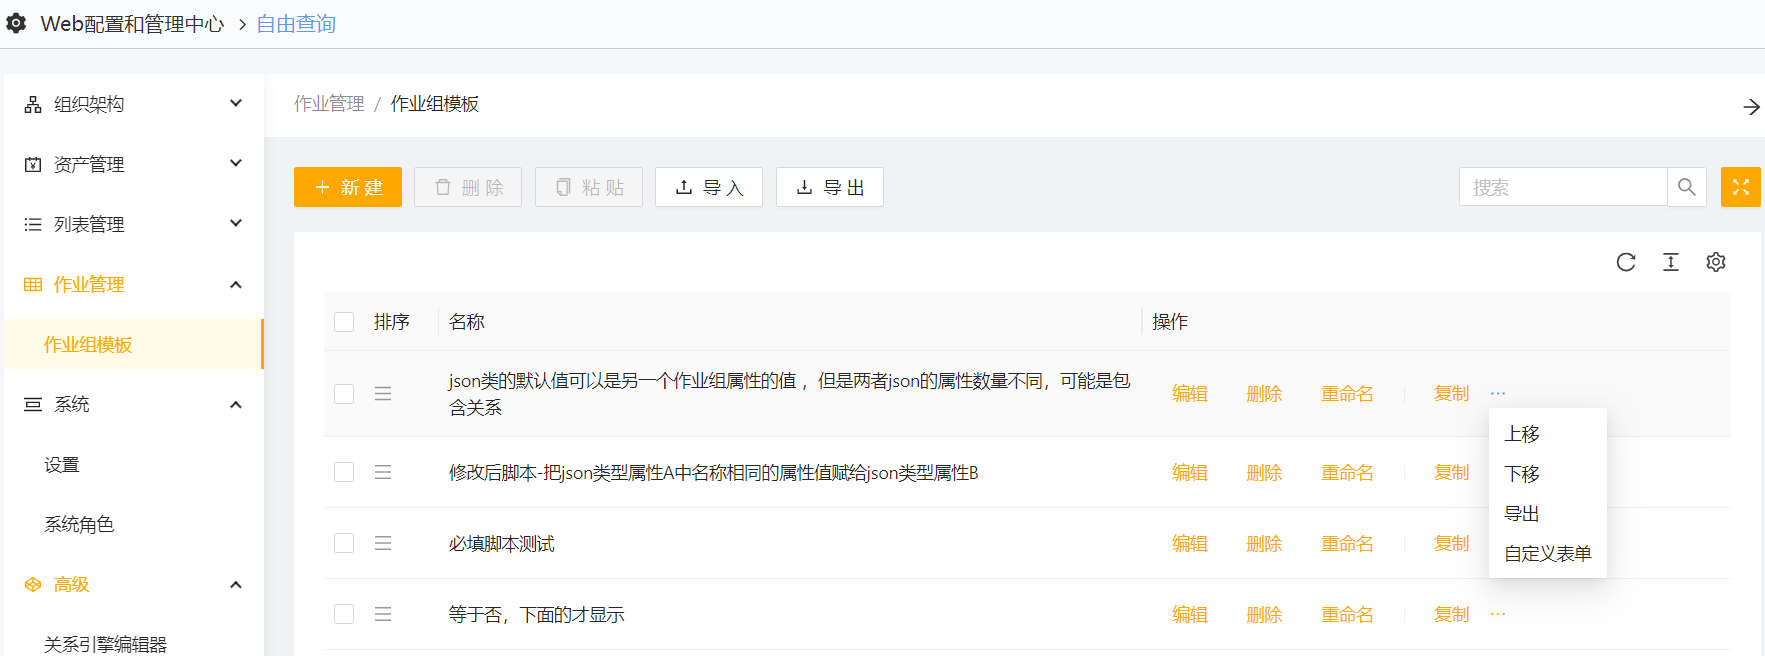
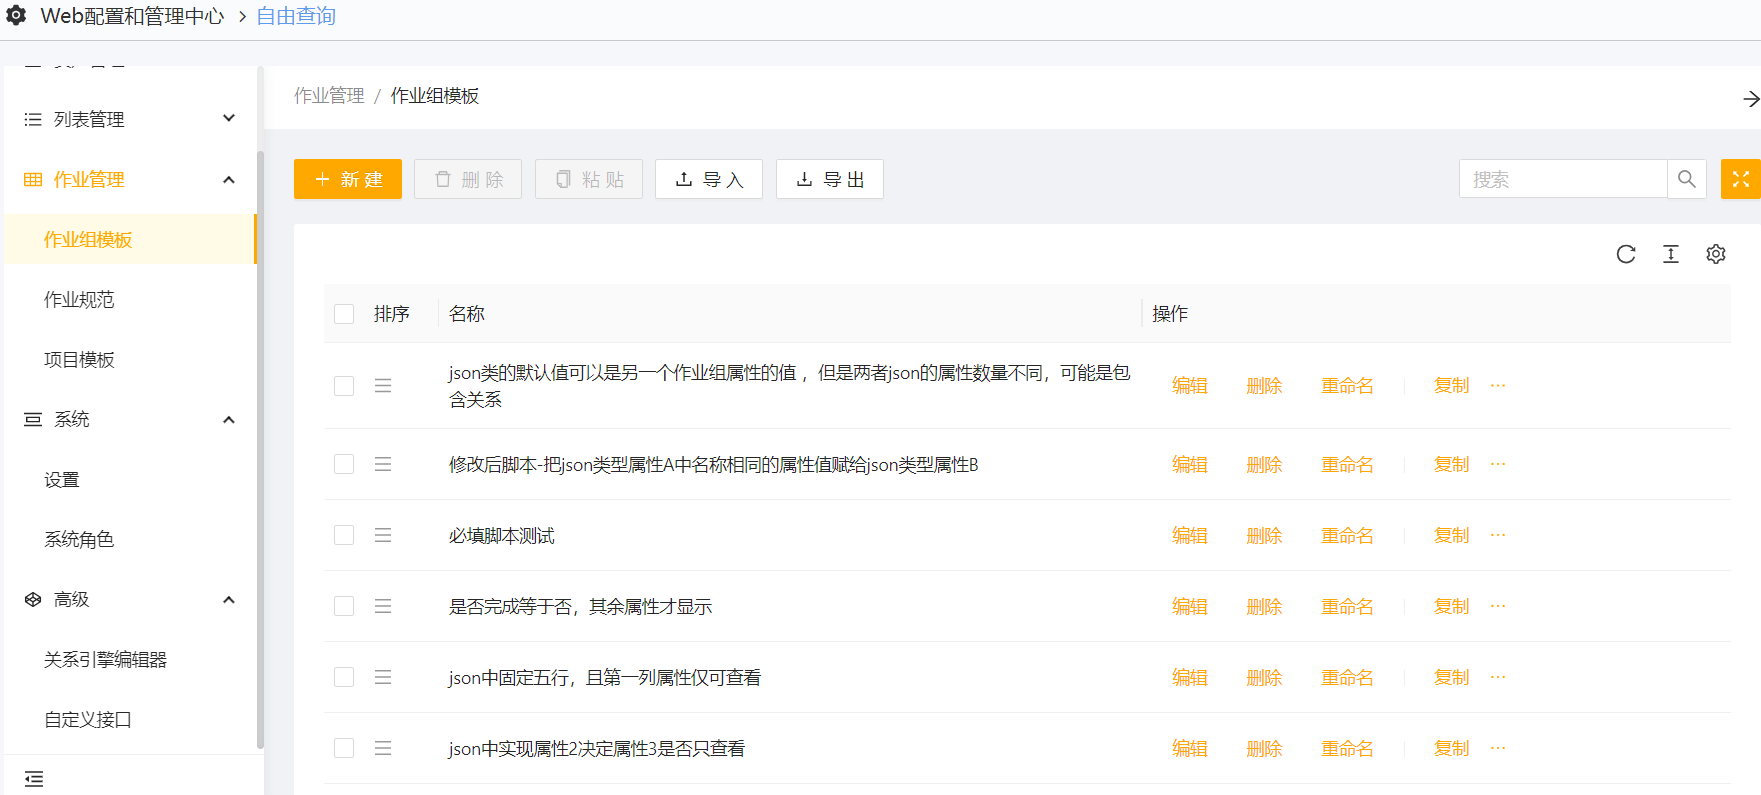
修改4.3.0发布说明

diff --git a/docs/发布说明/4.3.0发布说明.md b/docs/发布说明/4.3.0发布说明.md
@@ -112,7 +112,7 @@ import useBaseUrl from '@docusaurus/useBaseUrl';
 
 * Web配置和管理中心进一步升级优化，将更多的SDC配置功能Web化。
 
-* 左侧菜单新增加了作业管理，系统-系统角色，和高级。作业管理中包括作业组模板和作业规范。系统-系统角色中，可以进行粒度更细的权限控制。高级中，将关联关系引擎移植了过来，无需进行额外的配置。
+* 左侧菜单新增加了作业管理，系统-系统角色，和高级。作业管理中包括作业组模板、作业规范和项目模板。系统-系统角色中，可以进行粒度更细的权限控制。高级中，将关联关系引擎移植了过来，无需进行额外的配置。
 
 * 功能上增加了拷贝ID、Excel的导入导出、整个工程的导入导出、对于各实体基本属性的编辑等等。另外作业管理-作业组模板中增加了Web端才可以进行配置的自定义表单功能，用来对作业组属性的显示样式进行自定义配置。
 
